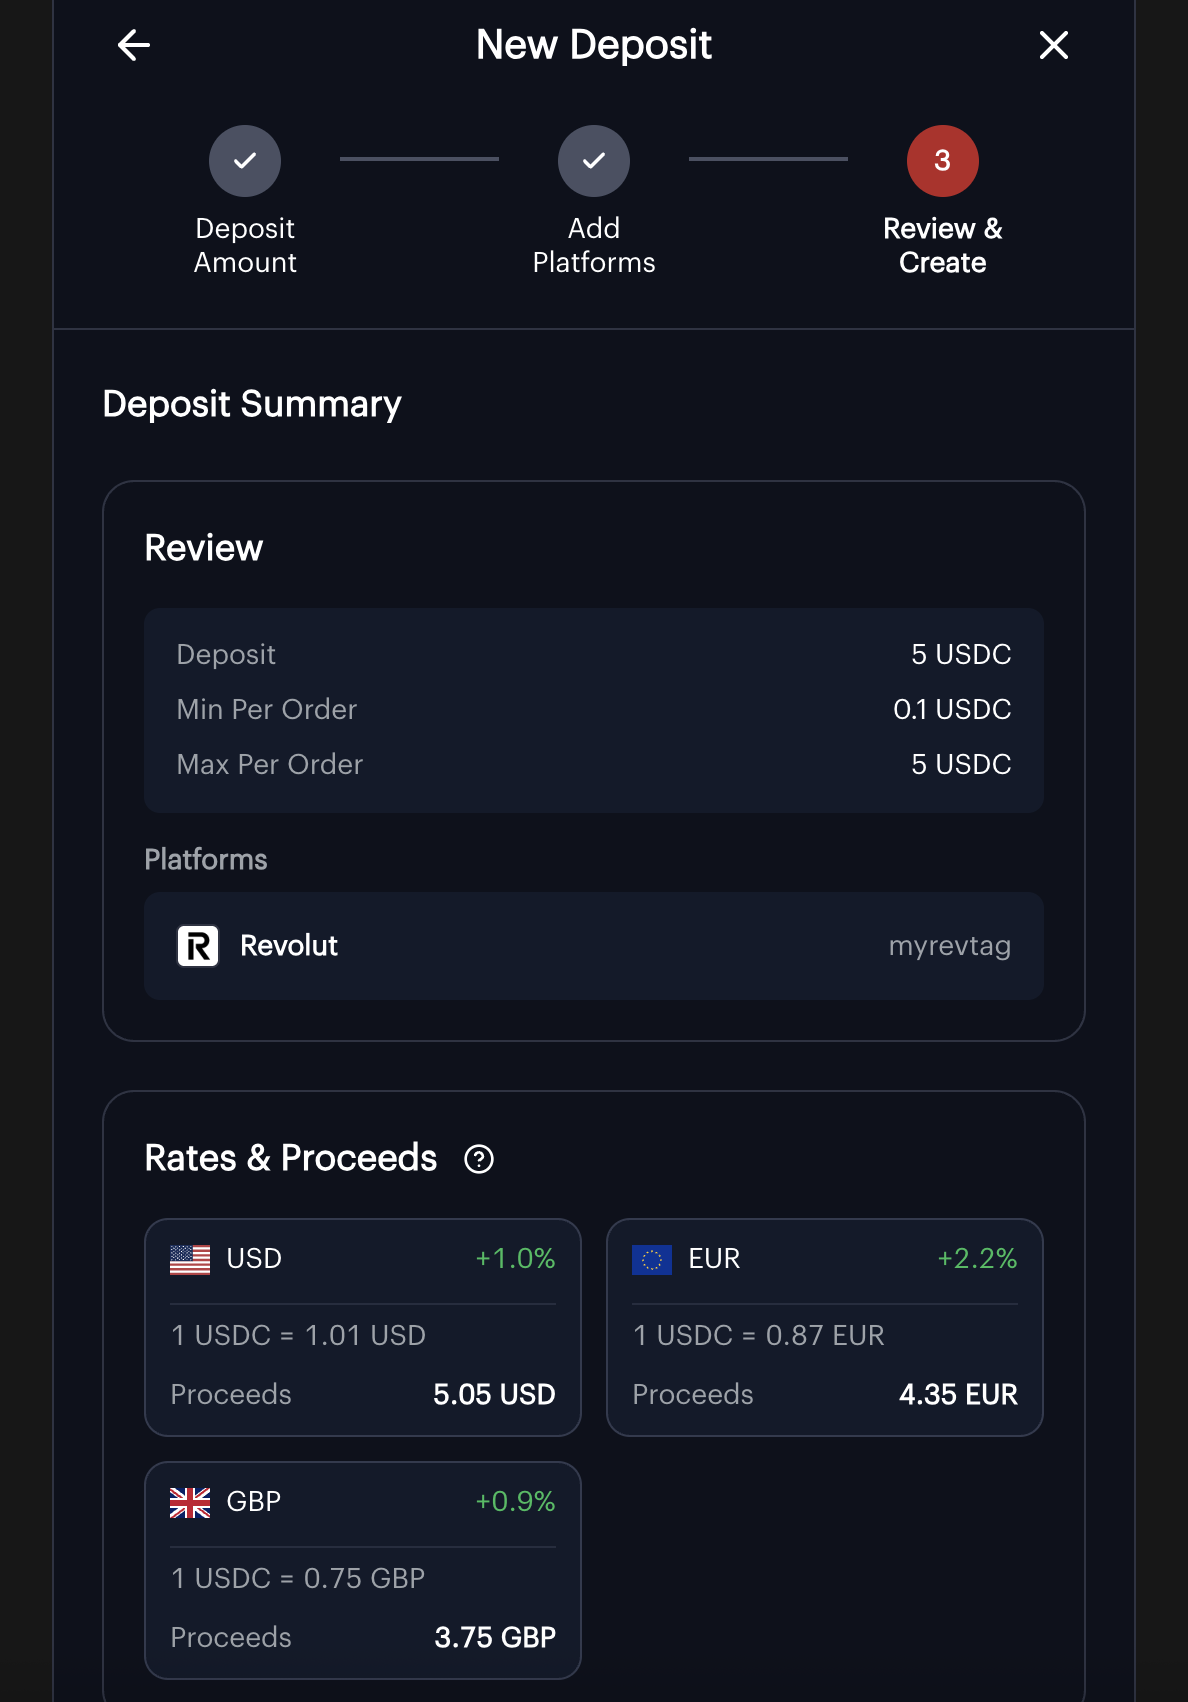
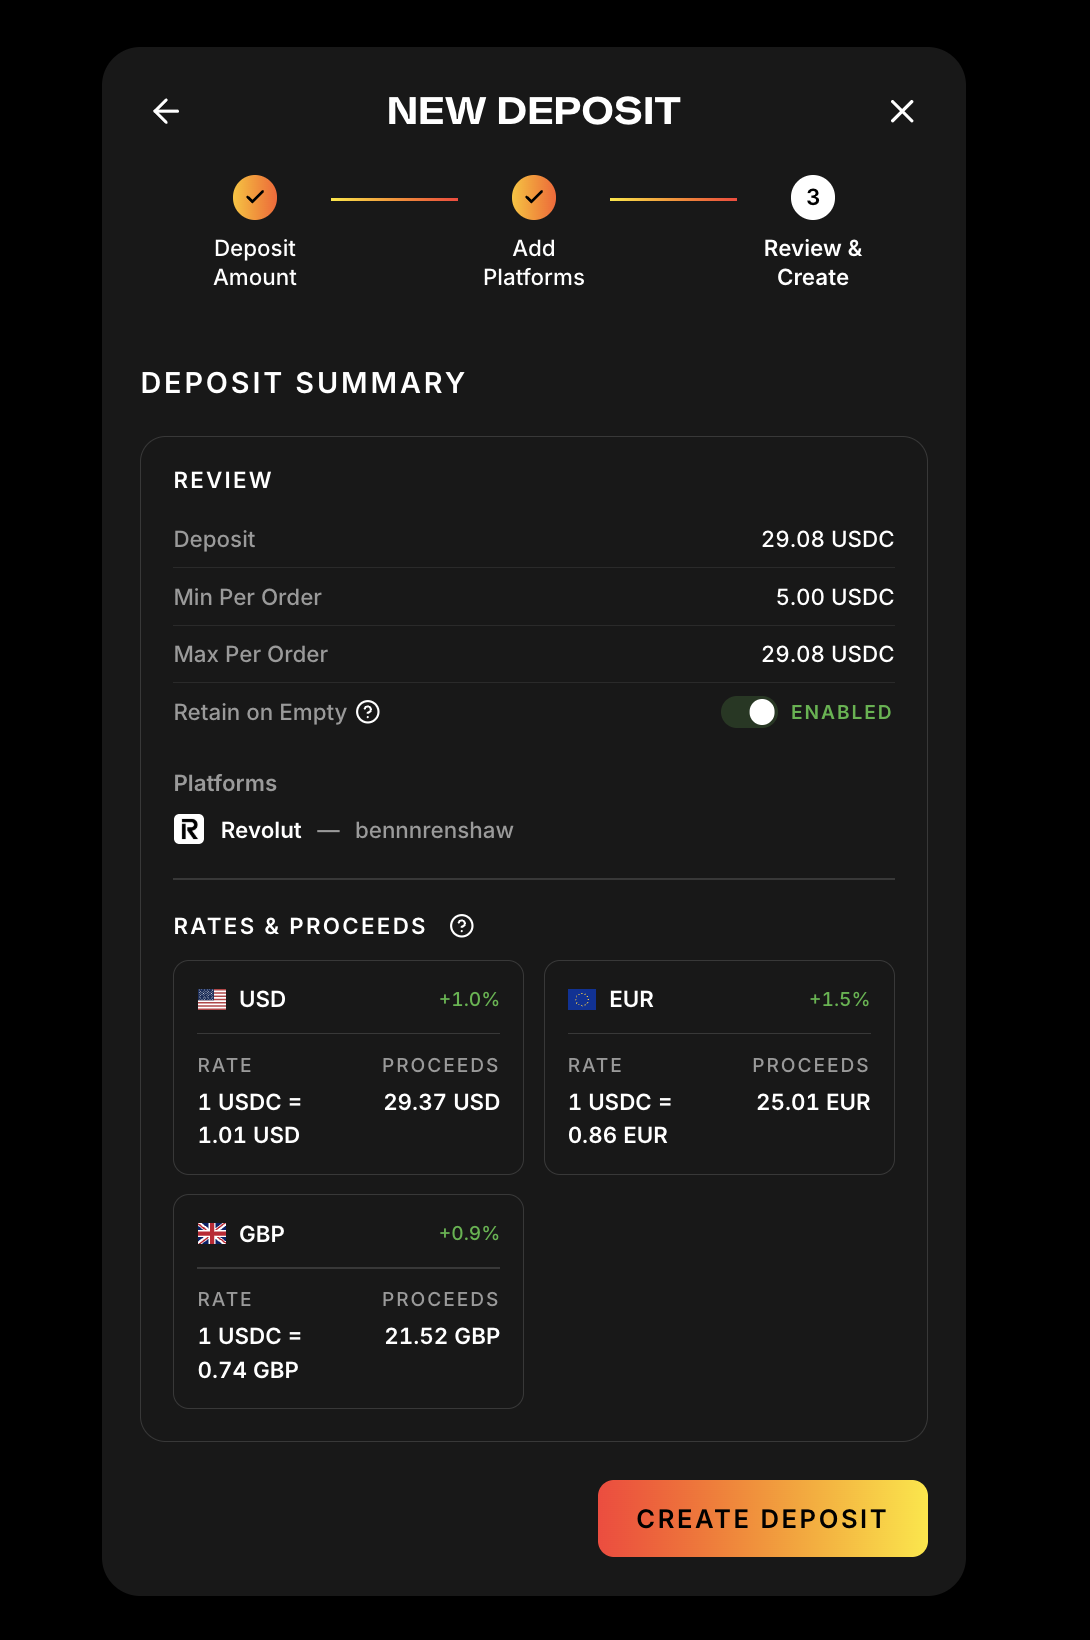
Update buyer and seller walkthrough images with Peer rebrand
- Update all buyer onboarding screenshots with new Peer UI
- Update seller liquidity guide screenshots
- Update conversion rate guide screenshots
- Update different chain liquidity guide screenshots
- Remove outdated PeerAuth and connect wallet images

diff --git a/guides/for-sellers/provide-liquidity-sell-usdc.md b/guides/for-sellers/provide-liquidity-sell-usdc.md
@@ -11,7 +11,7 @@ This guide will walk you through the process of providing liquidity on ZKP2P.
 
 Visit [https://peer.xyz](https://peer.xyz) in your browser.
 
-![Provide Step 1](/img/provide-liquidity/ProvideStep1.avif)
+![Provide Step 1](/img/onramping/OnrampStep1.png)
 
 
 ### Step 2: Check Current Market Rates
@@ -27,7 +27,7 @@ Visit [https://peer.xyz](https://peer.xyz) in your browser.
 
 - Click the add liquidity button on the top right hand side of the Order Book
 
-![Provide Step 3](/img/provide-liquidity/ProvideStep3.png)
+![Provide Step 3](/img/provide-liquidity/ProvideStep2.png)
 
 
 You can also click the **Sell** button on the toolbar 
@@ -39,10 +39,7 @@ You can also click the **Sell** button on the toolbar
 
 - The platform will prompt you to connect your wallet  
 - Select your preferred wallet (Rabby, MetaMask, etc.) or log in via email, Twitter, or Google  
-- Approve the connection request in your wallet 
-
-![Provide Step 4](/img/provide-liquidity/ProvideStep4.avif)
-
+- Approve the connection request in your wallet
 
 ### Step 5: Fund Account with USDC on Base
 
@@ -56,21 +53,21 @@ You can also click the **Sell** button on the toolbar
 
 - Click the **New Deposit** button
 
-![Provide Step 6](/img/provide-liquidity/ProvideStep6.avif)
+![Provide Step 6](/img/provide-liquidity/ProvideStep3a.png)
 
 
 ### Step 7: Deposit USDC to Sell
 
 - Click **Max** to deposit your full USDC balance or type a custom amount  
 
-![Provide Step 7](/img/provide-liquidity/ProvideStep7.avif)
+![Provide Step 7](/img/provide-liquidity/ProvideStep7.png)
 
 
 ### Step 8: Add Telegram Username (Optional)
 
 - Enter your Telegram username so buyers can contact you if any issues arise  
 
-![Provide Step 8](/img/provide-liquidity/ProvideStep8.avif)
+![Provide Step 8](/img/provide-liquidity/ProvideStep7.png)
 
 ### Step 9: Select Primary Payment Platform
 
@@ -85,7 +82,7 @@ Choose your preferred platform from the dropdown:
 - PayPal (Multi Currency)
 - Monzo (GBP Only)
 
-![Provide Step 9](/img/provide-liquidity/ProvideStep9.avif)
+![Provide Step 9](/img/provide-liquidity/ProvideStep9a.png)
 
 
 ### Step 10: Enter Payee Details
@@ -100,7 +97,7 @@ Enter your username/account details for the selected platform:
 
 > 🔍 **Double-check accuracy** — these details are how buyers send you money.
 
-![Provide Step 10](/img/provide-liquidity/ProvideStep10.png)
+![Provide Step 10](/img/provide-liquidity/ProvideStep9.png)
 
 
 ### Step 11: Set Exchange Rates
@@ -166,8 +163,8 @@ If all details are correct you can continue with your transaction!
   - Accepted currencies/platforms
   - Current status  
 
-![Provide Step 17](/img/provide-liquidity/ProvideStep17.avif)
-![Provide Step 17a](/img/provide-liquidity/ProvideStep17a.avif)
+![Provide Step 17](/img/provide-liquidity/ProvideStep17.png)
+![Provide Step 17a](/img/provide-liquidity/ProvideStep17a.png)
 
 
 ---

diff --git a/guides/for-buyers/complete-guide-to-onboarding.md b/guides/for-buyers/complete-guide-to-onboarding.md
@@ -11,7 +11,7 @@ This guide will walk you through the process of buying USDC and cryptocurrency o
 
 Visit [https://peer.xyz](https://peer.xyz) in your browser.
 
-![Onramp Step 1](/img/onramping/OnrampStep1.avif)
+![Onramp Step 1](/img/onramping/OnrampStep1.png)
 
 ### Step 2: Connect Your Wallet
 
@@ -25,19 +25,19 @@ You'll need to connect a wallet like Rabby, MetaMask, or sign in with Twitter, G
 
 Click on the **Buy** tab in the main navigation bar.
 
-![Onramp Step 3](/img/onramping/OnrampStep3.avif)
+![Onramp Step 3](/img/onramping/OnrampStep3.png)
 
 
 ### Step 4: Configure Your Purchase
 
 - Select your currency from the dropdown menu (USD, EUR, GBP, etc.)  
 
-![Onramp Step 4](/img/onramping/OnrampStep4.avif)
+![Onramp Step 4](/img/onramping/OnrampStep4.png)
 
 - Enter the amount you want to send in your local currency (e.g., 1 USD)  
 - Choose your payment method (Revolut, Venmo, Cash App, Wise)  
 
-![Onramp Step 4a](/img/onramping/OnrampStep4a.avif)
+![Onramp Step 4a](/img/onramping/OnrampStep4.png)
 
 - Choose your desired Chain and Token
 _ZKP2P currently supports most major chains, including Base, Arbitrum, HyperCore, HyperEVM, Mainnet, Plasma, Solana_
@@ -64,7 +64,7 @@ ZKP2P will automatically calculate how much USDC you'll receive based on liquidi
 - You will be prompted to sign a transaction
 - If you logged in with socials, gas is sponsored and you will not have to sign anything. 
 
-![Onramp Step 6](/img/onramping/OnrampStep6.avif)
+![Onramp Step 6](/img/onramping/OnrampStep6.png)
 
 
 ### Step 7: Install the PeerAuth Chrome Extension
@@ -74,9 +74,6 @@ For first-time users, you'll need to install the PeerAuth Extension that helps v
 - You'll see the **Install PeerAuth Extension** screen  
 - Click **Add to Chrome** to install the extension
 
-![Onramp Step 7](/img/onramping/OnrampStep7.avif)
-
-
 ### Step 8: Make and Confirm the Payment
 
 - You'll see a QR code or payment instructions  
@@ -85,7 +82,7 @@ For first-time users, you'll need to install the PeerAuth Extension that helps v
 - **Do not perform cross-currency swaps** (e.g., in Revolut), as this can cause verification issues and you may lose your money
 - Return to ZKP2P and click **I have completed payment**  
 
-![Onramp Step 8](/img/onramping/OnrampStep8.avif)
+![Onramp Step 8](/img/onramping/OnrampStep8.png)
 
 
 ### Step 9: Payment Verification Process

diff --git a/guides/for-sellers/update-usdc-rates.md b/guides/for-sellers/update-usdc-rates.md
@@ -13,7 +13,7 @@ After creating your deposit in ZKP2P, you may need to adjust your conversion rat
 - Click on the **Sell** tab in the main navigation bar  
 - Find your active deposit in the list and click to view details  
 
-![CR Step 1](/img/conversion-rate/CRStep1.avif)  
+![CR Step 1](/img/provide-liquidity/ProvideStep17.png)  
 
 ### Step 2: Locate the Conversion Rates Section
 
@@ -23,7 +23,7 @@ Scroll to the **Conversion Rates** section. You'll see:
 - The **currencies** you accept (e.g., GBP, SGD, EUR)  
 - The **current conversion rate** for each currency \
 
-![CR Step 2](/img/conversion-rate/CRStep2.avif)  
+![CR Step 2](/img/provide-liquidity/ProvideStep17a.png)  
 
 
 ### Step 3: Select the Rate to Update
@@ -32,7 +32,7 @@ Scroll to the **Conversion Rates** section. You'll see:
 - Click the **edit icon (pencil)** next to the current rate  
 - The "Update Conversion Rate" screen will appear  
 
-![CR Step 3](/img/conversion-rate/CRStep3.avif)  
+![CR Step 3](/img/conversion-rate/CRStep3.png)  
 
 
 ### Step 4: Enter Your New Rate
@@ -46,7 +46,7 @@ In the modal, you'll see:
 
 Enter your new rate — e.g., changing **0.8 → 0.795** for GBP.
 
-![CR Step 4](/img/conversion-rate/CRStep4.avif)  
+![CR Step 4](/img/conversion-rate/CRStep4.png)  
 
 
 
@@ -56,15 +56,13 @@ Enter your new rate — e.g., changing **0.8 → 0.795** for GBP.
 - Your wallet will prompt you to sign the transaction  
 - This updates your rate on-chain in the smart contract  
 
-![CR Step 5](/img/conversion-rate/CRStep5.avif)  
-
 ### Step 6: Wait for Confirmation
 
 - Wait for the transaction to confirm on the Base Network
 - Once confirmed, your updated rate will show in the Conversion Rates section  
 - The new rate will apply to all future orders
 
-![CR Step 6](/img/conversion-rate/CRStep6.avif)
+![CR Step 6](/img/conversion-rate/CRStep6.png)
 
 
 

diff --git a/guides/for-buyers/handling-verification-issues.md b/guides/for-buyers/handling-verification-issues.md
@@ -10,10 +10,7 @@ title: Handling Verification Issues as a Buyer
 When you buy USDC or crypto through ZKP2P, the platform tries to automatically verify your payment through a zero-knowledge proof system. Sometimes this verification process can fail due to various reasons:
 
 - The PeerAuth extension couldn't properly load your payment  
-- Technical issues with the payment platform  
-
-![Step 1](/img/verification/VerificationStep1.avif)
-
+- Technical issues with the payment platform
 
 ### Step-by-Step: What to Do When Verification Fails
 
@@ -27,9 +24,7 @@ When you buy USDC or crypto through ZKP2P, the platform tries to automatically v
 
 1. Ensure the **PeerAuth extension** is properly installed and active  
 2. If you just installed it, you might need to **refresh the page**  
-3. The extension needs proper permissions to access your payment data  
-
-![Step 4](/img/verification/VerificationStep4.png)
+3. The extension needs proper permissions to access your payment data
 
 #### Contact the Seller or Support via Telegram
 

diff --git a/guides/for-sellers/provide-liquidity-diff-chain.md b/guides/for-sellers/provide-liquidity-diff-chain.md
@@ -11,14 +11,14 @@ This guide will walk you through the process of providing liquidity on ZKP2P fro
 
 Visit [https://peer.xyz](https://peer.xyz) in your browser.
 
-![Provide Step 1](/img/provide-liquidity/ProvideStep1.avif)
+![Provide Step 1](/img/onramping/OnrampStep1.png)
 
 
 ### Step 2: Add Liquidity
 
 - Click the add liquidity button on the top right hand side of the Order Book
 
-![Provide Step 3](/img/provide-liquidity/ProvideStep3.png)
+![Provide Step 3](/img/provide-liquidity/ProvideStep2.png)
 
 
 You can also click the **Sell** button on the toolbar 
@@ -30,9 +30,7 @@ You can also click the **Sell** button on the toolbar
 
 - The platform will prompt you to connect your wallet  
 - Select your preferred wallet (Rabby, MetaMask, etc.) or log in via email, Twitter, or Google  
-- Approve the connection request in your wallet 
-
-![Provide Step 4](/img/provide-liquidity/ProvideStep4.avif)
+- Approve the connection request in your wallet
 
 ### Step 4: Get USDC
 
